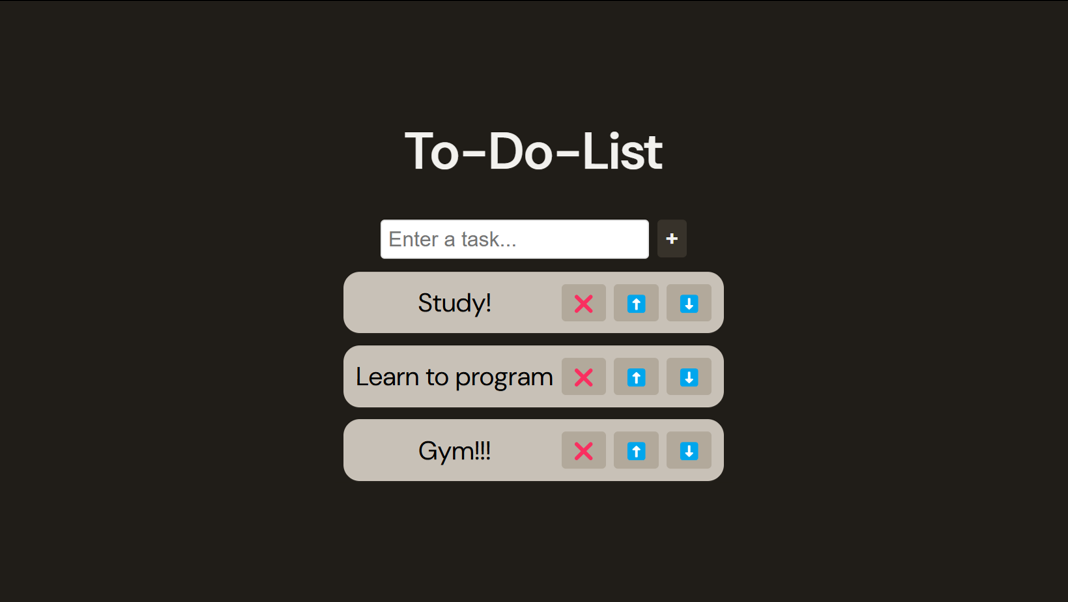
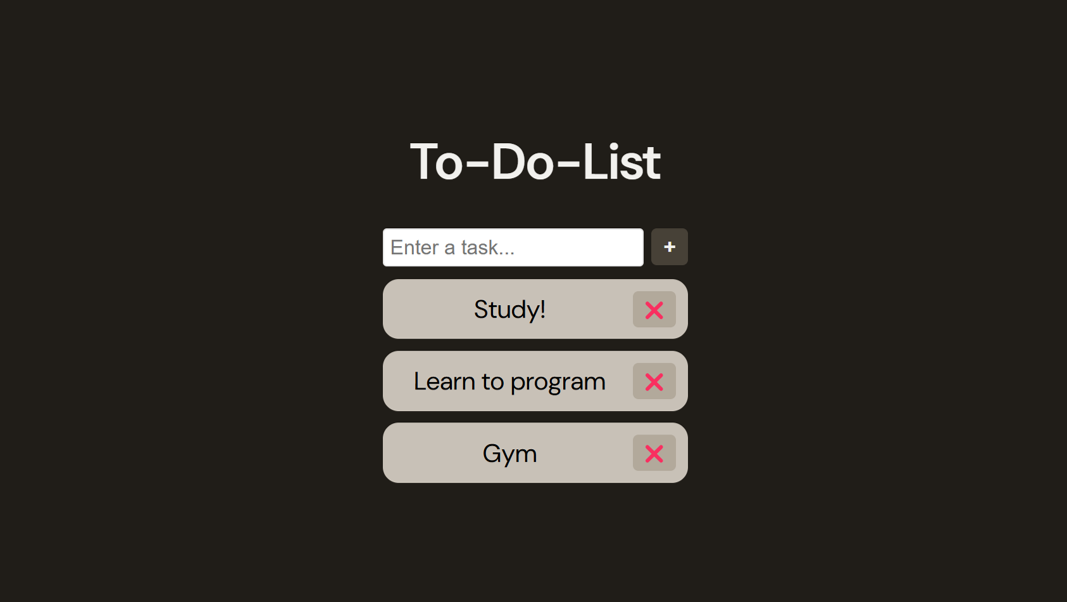
update

Changed region(s): [[0.3093, 0.3588, 0.6804, 0.8073], [0.3711, 0.2093, 0.6186, 0.299]]

diff --git a/index.html b/index.html
@@ -128,8 +128,7 @@
                     <div class="project">
                         <img src="photos/todolist.png" alt="Image">
                         <h3>To-Do-List</h3>
-                        <p>This project is a React.js based application allowing users to add, delete, and
-                            reorder tasks.
+                        <p>This project is a React.js based application allowing users to add and delete tasks.
                         </p>
                     </div>
                 </a>
